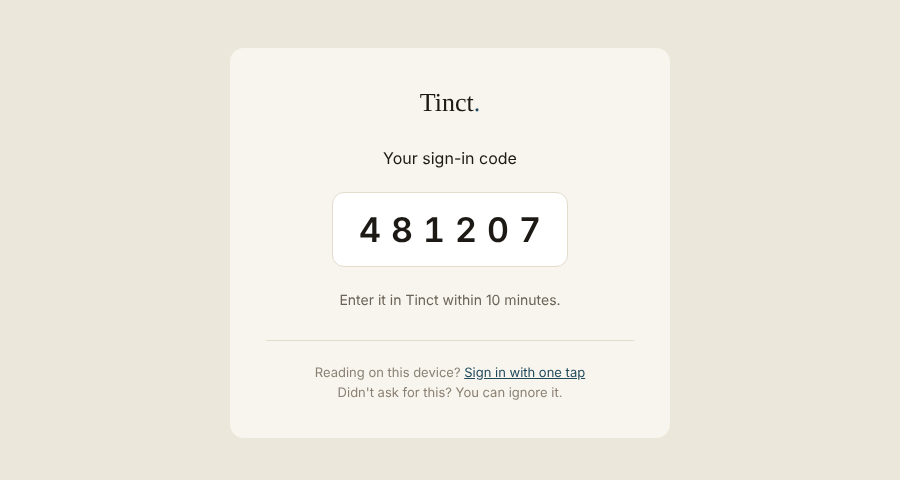
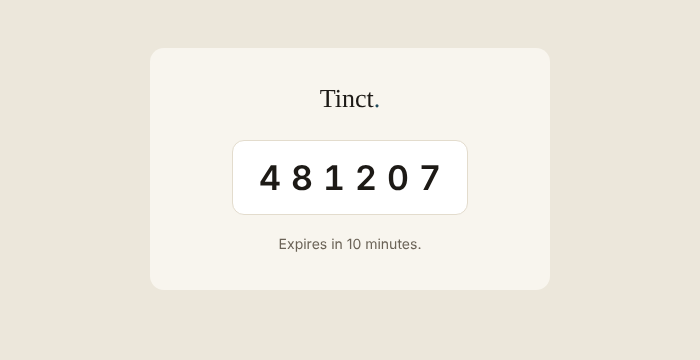
Sign-in code email: only the code and its expiry
Claude-Session: https://claude.ai/code/session_01Tt6gbZoMDKBnoXUuw3Vk7B

diff --git a/docs/onboarding-v3/supabase-magic-link-template.html b/docs/onboarding-v3/supabase-magic-link-template.html
@@ -9,18 +9,16 @@
   <table width="100%" cellpadding="0" cellspacing="0" role="presentation" style="background-color: #ece7db; padding: 48px 16px;">
     <tr>
       <td align="center">
-        <table width="440" cellpadding="0" cellspacing="0" role="presentation" style="max-width: 440px; width: 100%; background-color: #f8f5ee; border-radius: 14px; padding: 40px 36px 36px;">
+        <table width="400" cellpadding="0" cellspacing="0" role="presentation" style="max-width: 400px; width: 100%; background-color: #f8f5ee; border-radius: 14px; padding: 36px 32px;">
           <tr>
             <td align="center">
-              <p style="font-family: Georgia, 'Times New Roman', serif; font-size: 26px; color: #1d1a16; margin: 0 0 28px 0;">Tinct<span style="color: #1f4a5c;">.</span></p>
-              <p style="font-size: 16px; color: #1d1a16; line-height: 1.5; margin: 0 0 22px 0;">Your sign-in code</p>
-              <table cellpadding="0" cellspacing="0" role="presentation" style="margin: 0 auto 22px auto;">
+              <p style="font-family: Georgia, 'Times New Roman', serif; font-size: 26px; color: #1d1a16; margin: 0 0 26px 0;">Tinct<span style="color: #1f4a5c;">.</span></p>
+              <table cellpadding="0" cellspacing="0" role="presentation" style="margin: 0 auto 18px auto;">
                 <tr>
                   <td style="background-color: #ffffff; border: 1px solid #e3dccd; border-radius: 12px; padding: 16px 16px 16px 26px; font-size: 34px; font-weight: 600; letter-spacing: 10px; color: #1d1a16; font-variant-numeric: tabular-nums; text-align: center;">{{ .Token }}</td>
                 </tr>
               </table>
-              <p style="font-size: 14px; color: #6b6357; line-height: 1.5; margin: 0 0 30px 0;">Enter it in Tinct within 10 minutes.</p>
-              <p style="font-size: 13px; color: #8a8174; line-height: 1.5; margin: 0; border-top: 1px solid #e3dccd; padding-top: 22px;">Reading on this device? <a href="{{ .ConfirmationURL }}" style="color: #1f4a5c;">Sign in with one tap</a><br>Didn't ask for this? You can ignore it.</p>
+              <p style="font-size: 14px; color: #6b6357; line-height: 1.5; margin: 0;">Expires in 10 minutes.</p>
             </td>
           </tr>
         </table>
